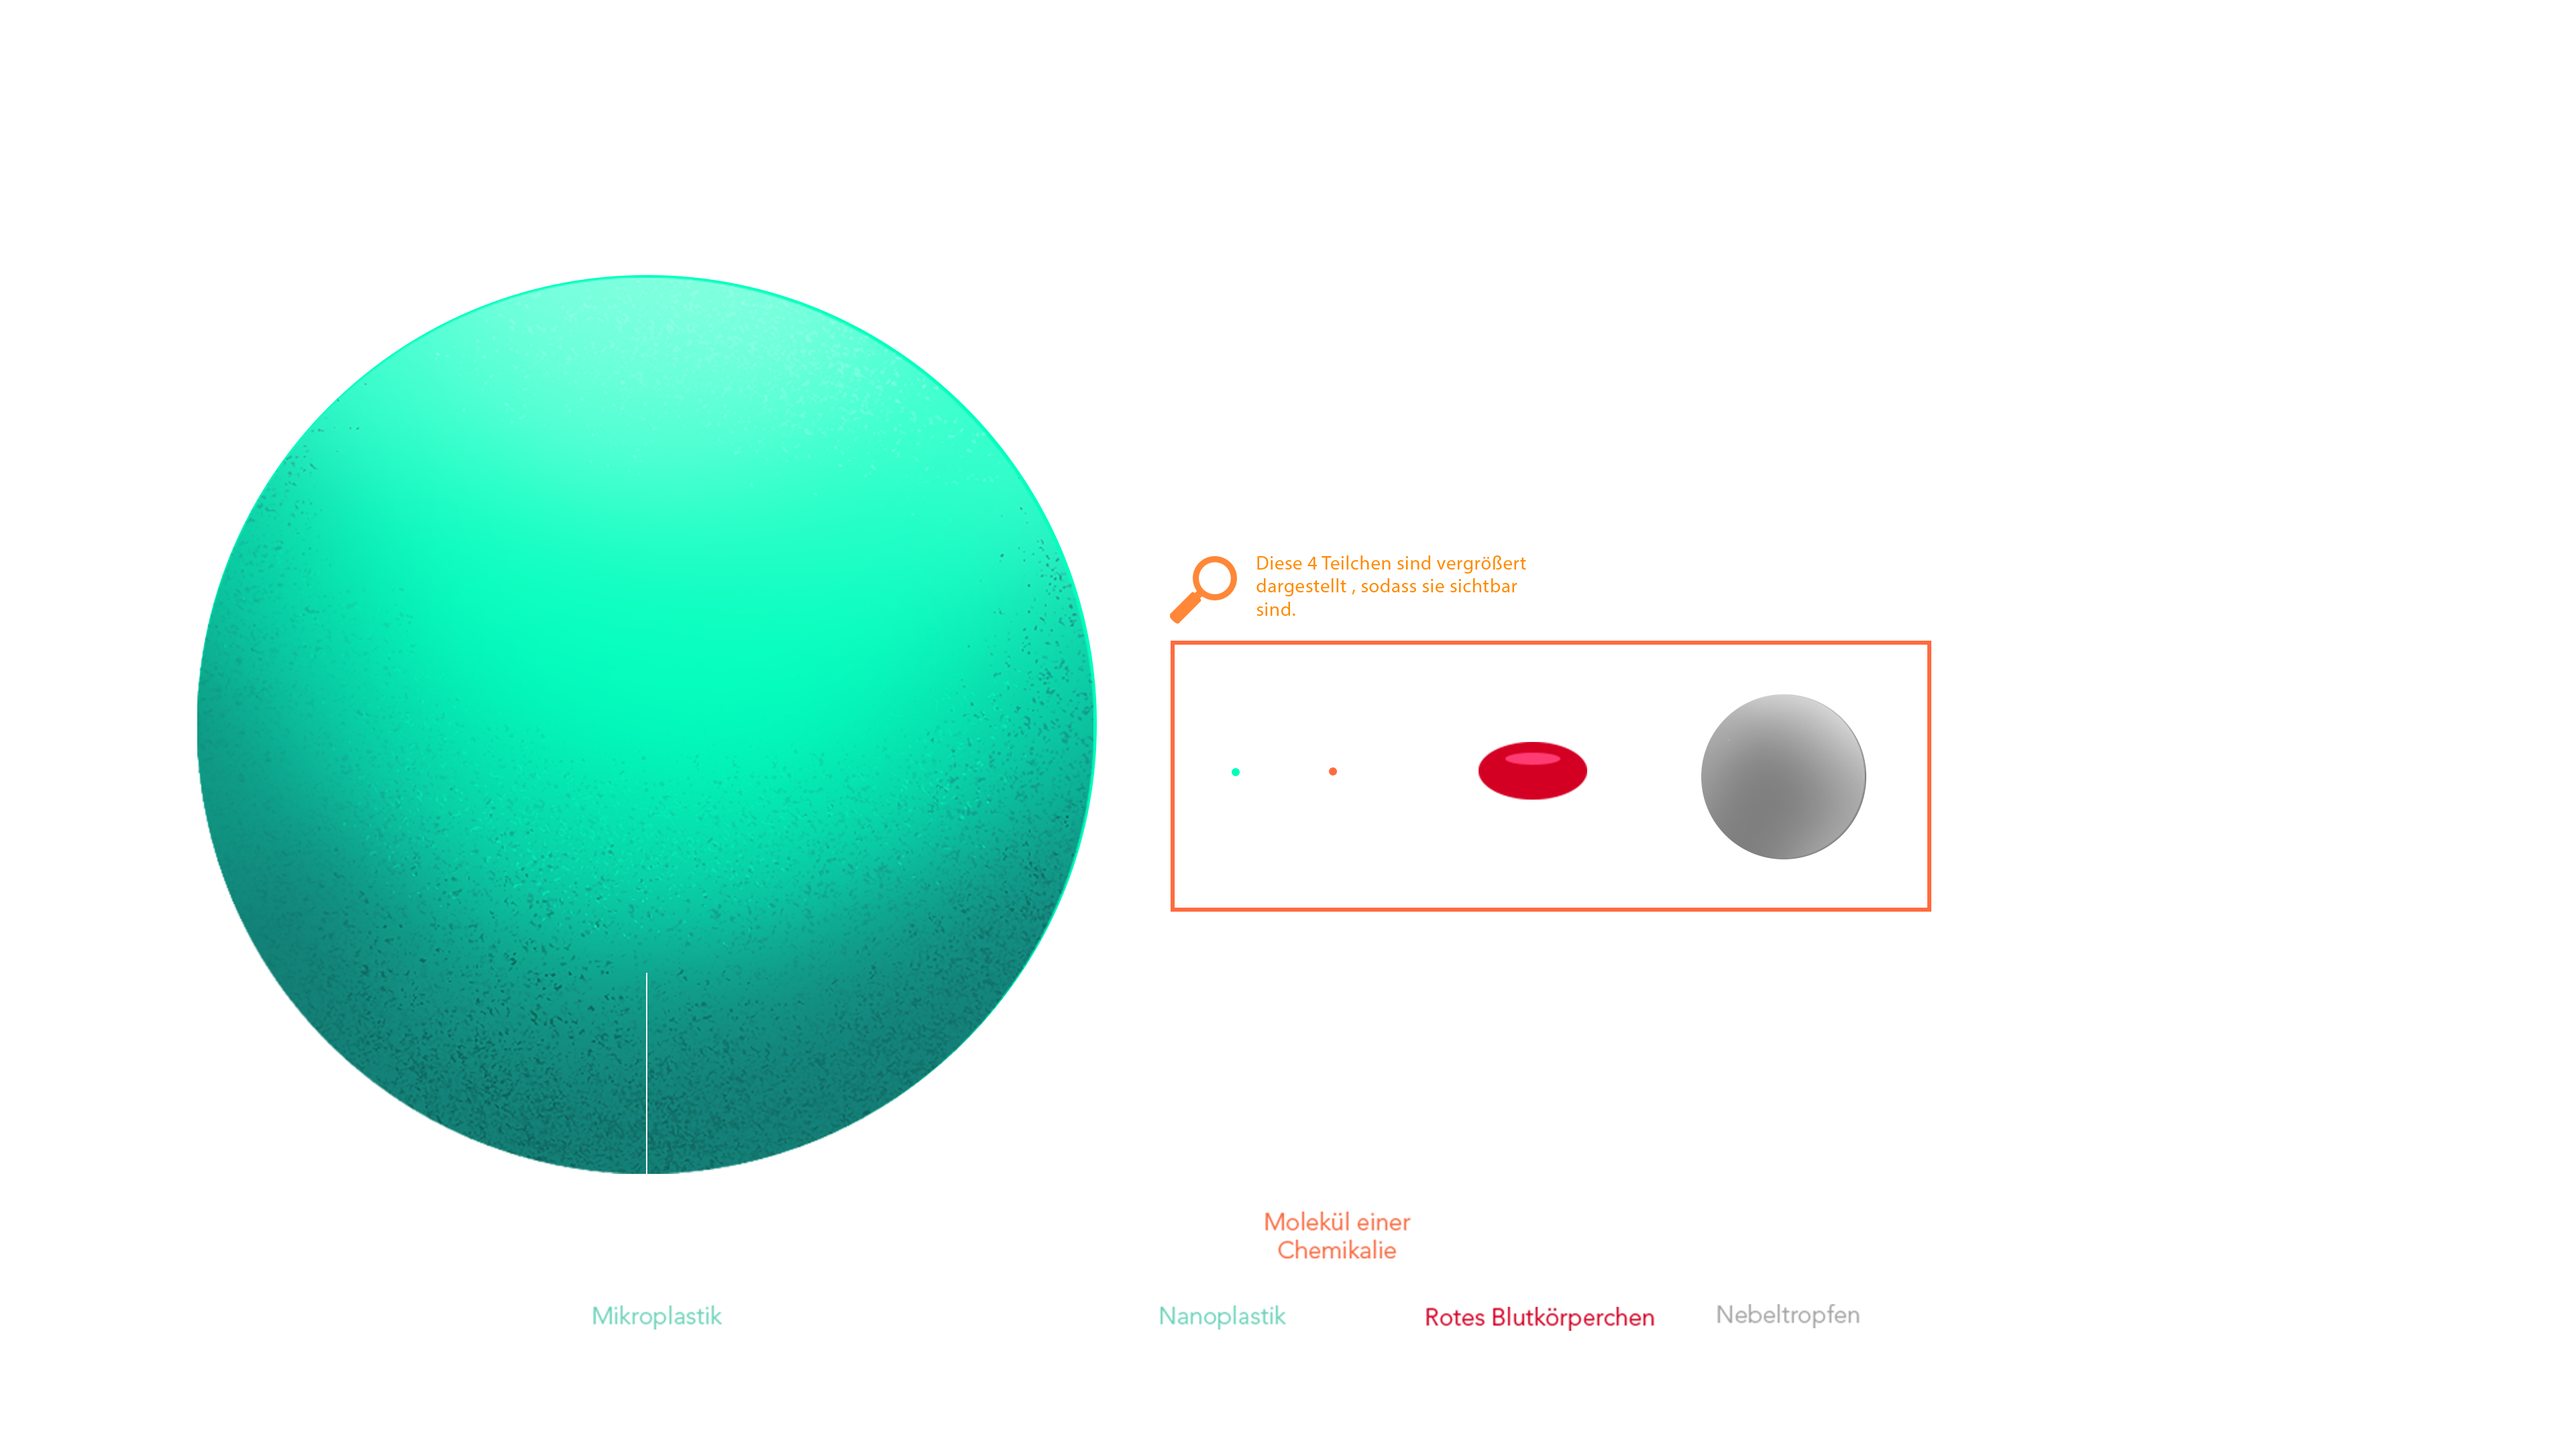
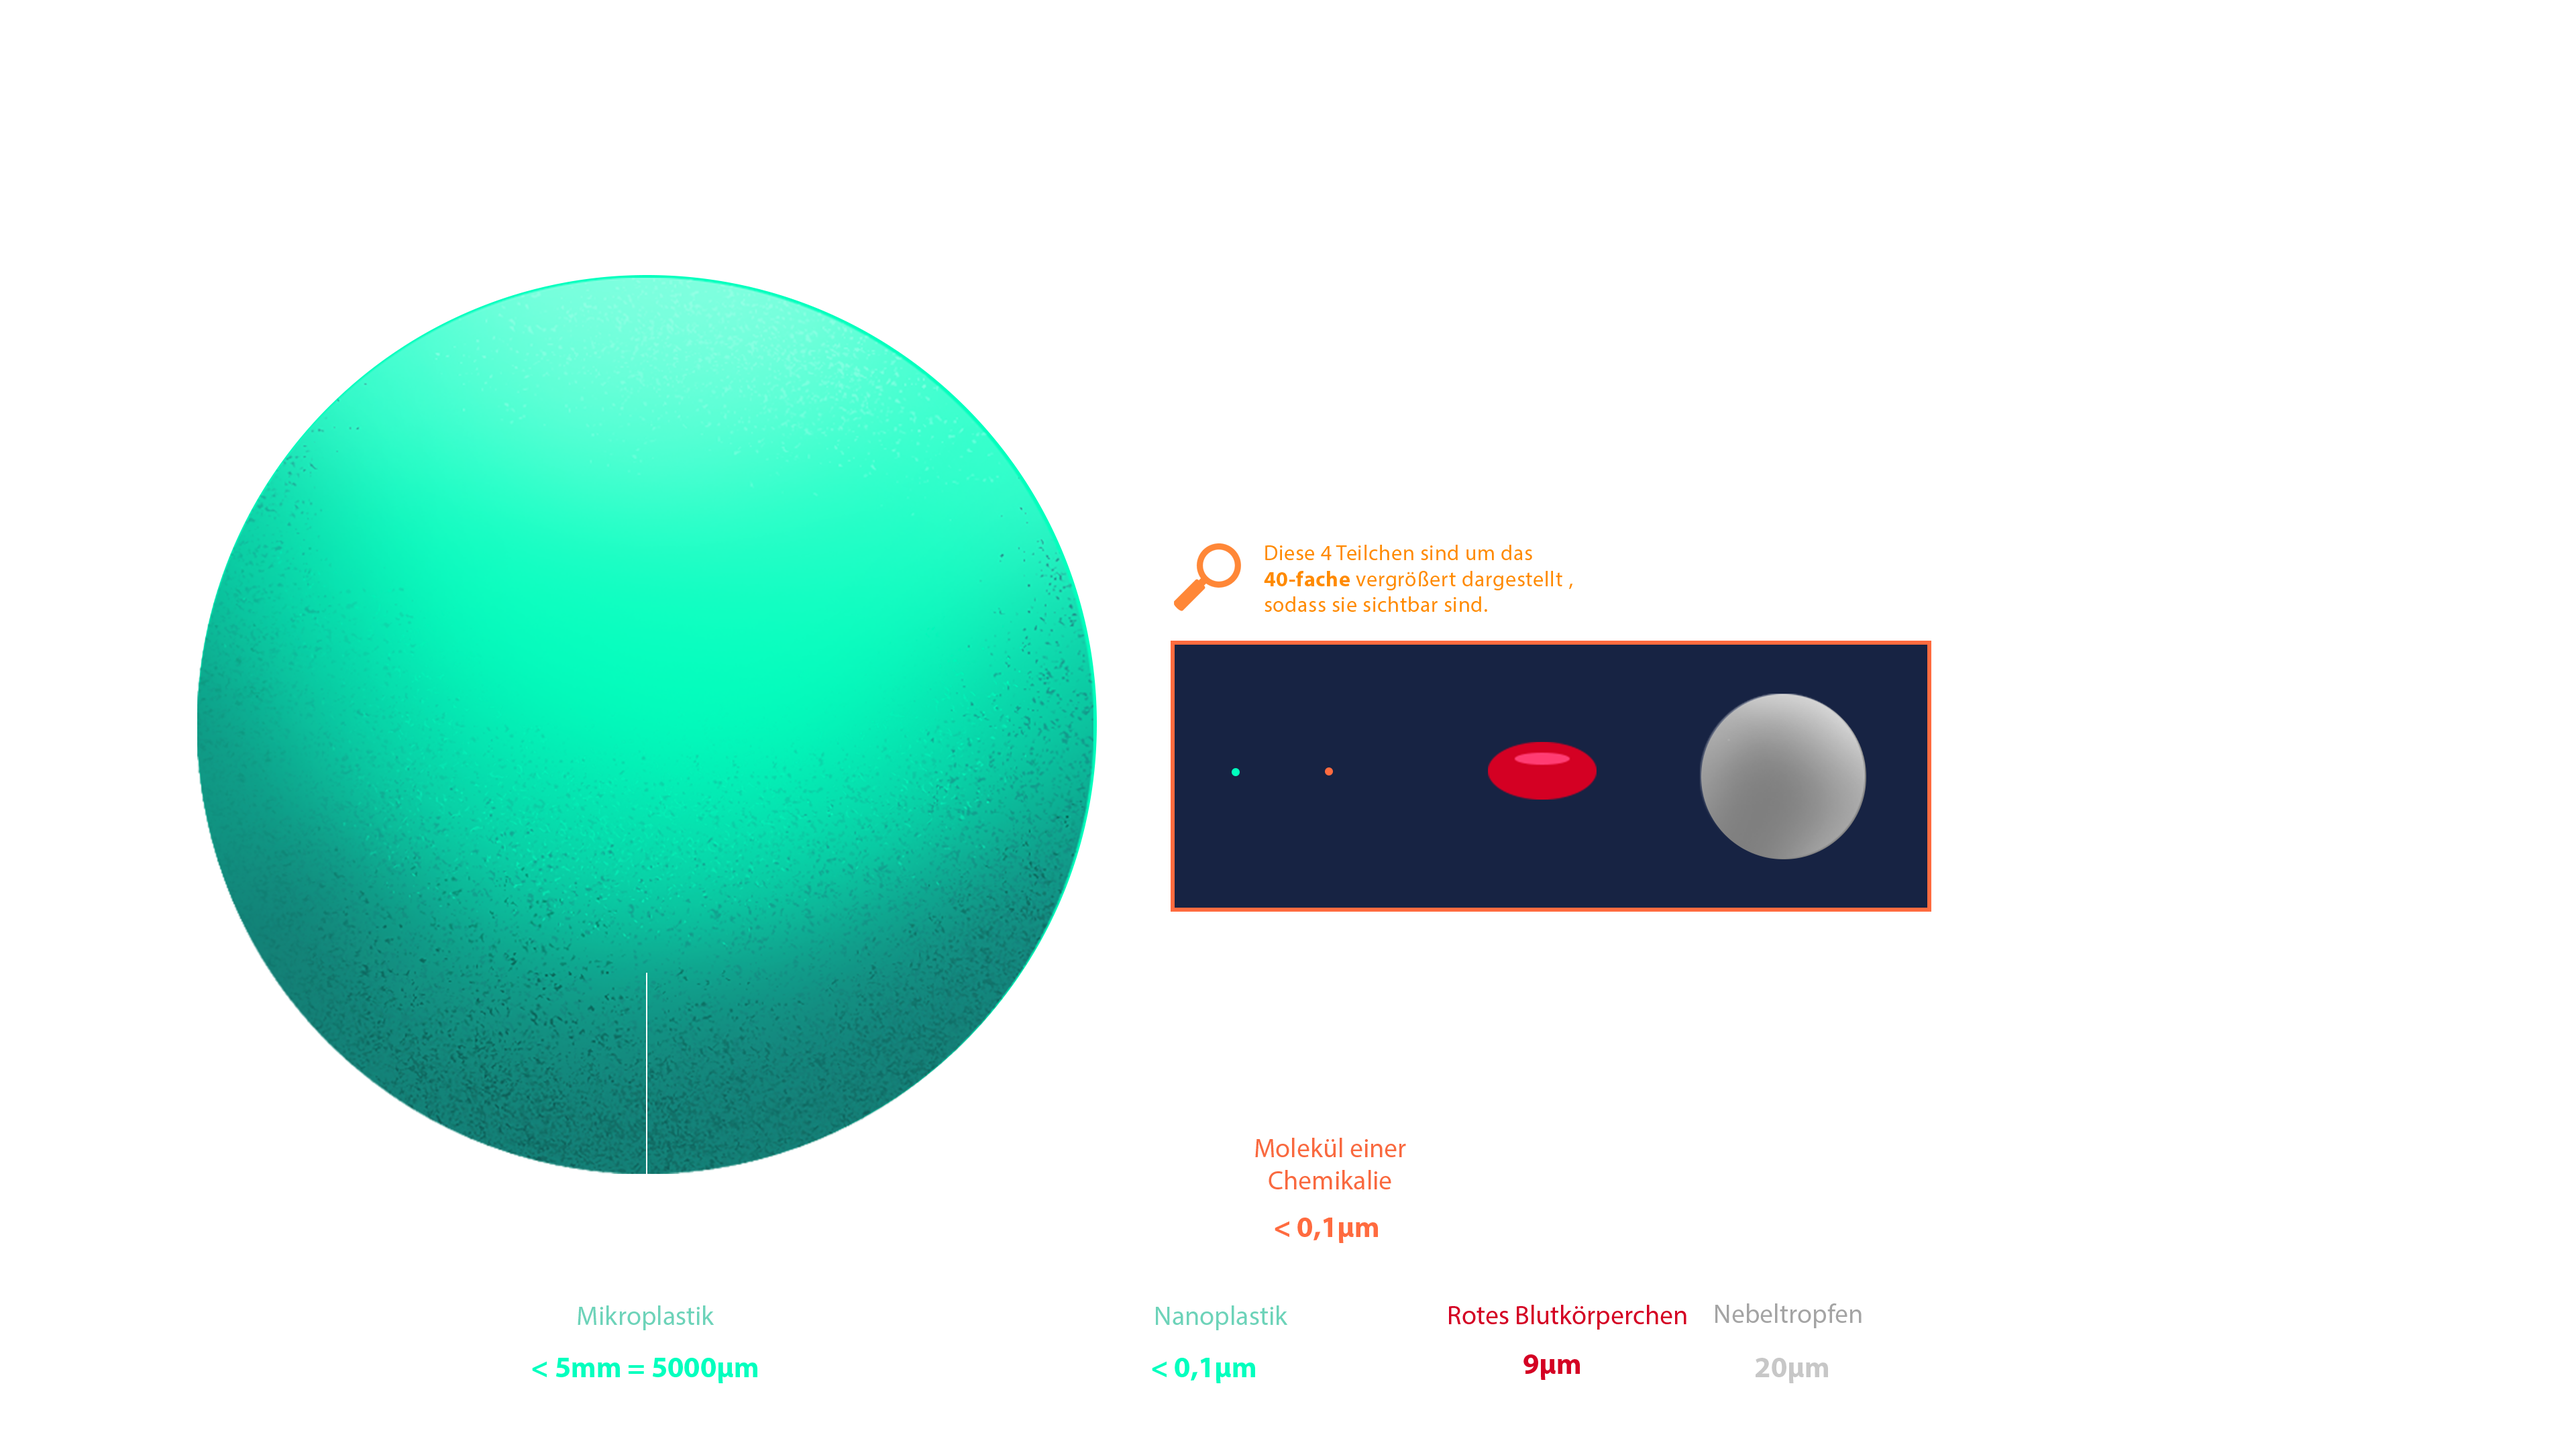
changed last textbubble

diff --git a/static/index.html b/static/index.html
@@ -289,7 +289,7 @@ Da die Phthalate als Weichmacher nicht chemisch an den Kunststoff (PVC) gebunden
 
         <div id="objekte_text">
 
-            <img src="image/Letze_Textbubble.png" style="margin: auto; width: 100%;">
+            <img src="image/Text_bubble_Screen_1.png" style="margin-left: 70%; margin-top: 10%; width: 20%; object-fit: scale-down;">
             <div id="magnifier-glass"  class="center_image" style="position: absolute">
                 <img id="glass" src="image/Lupe.png" style="width: 20%;">
             </div>
